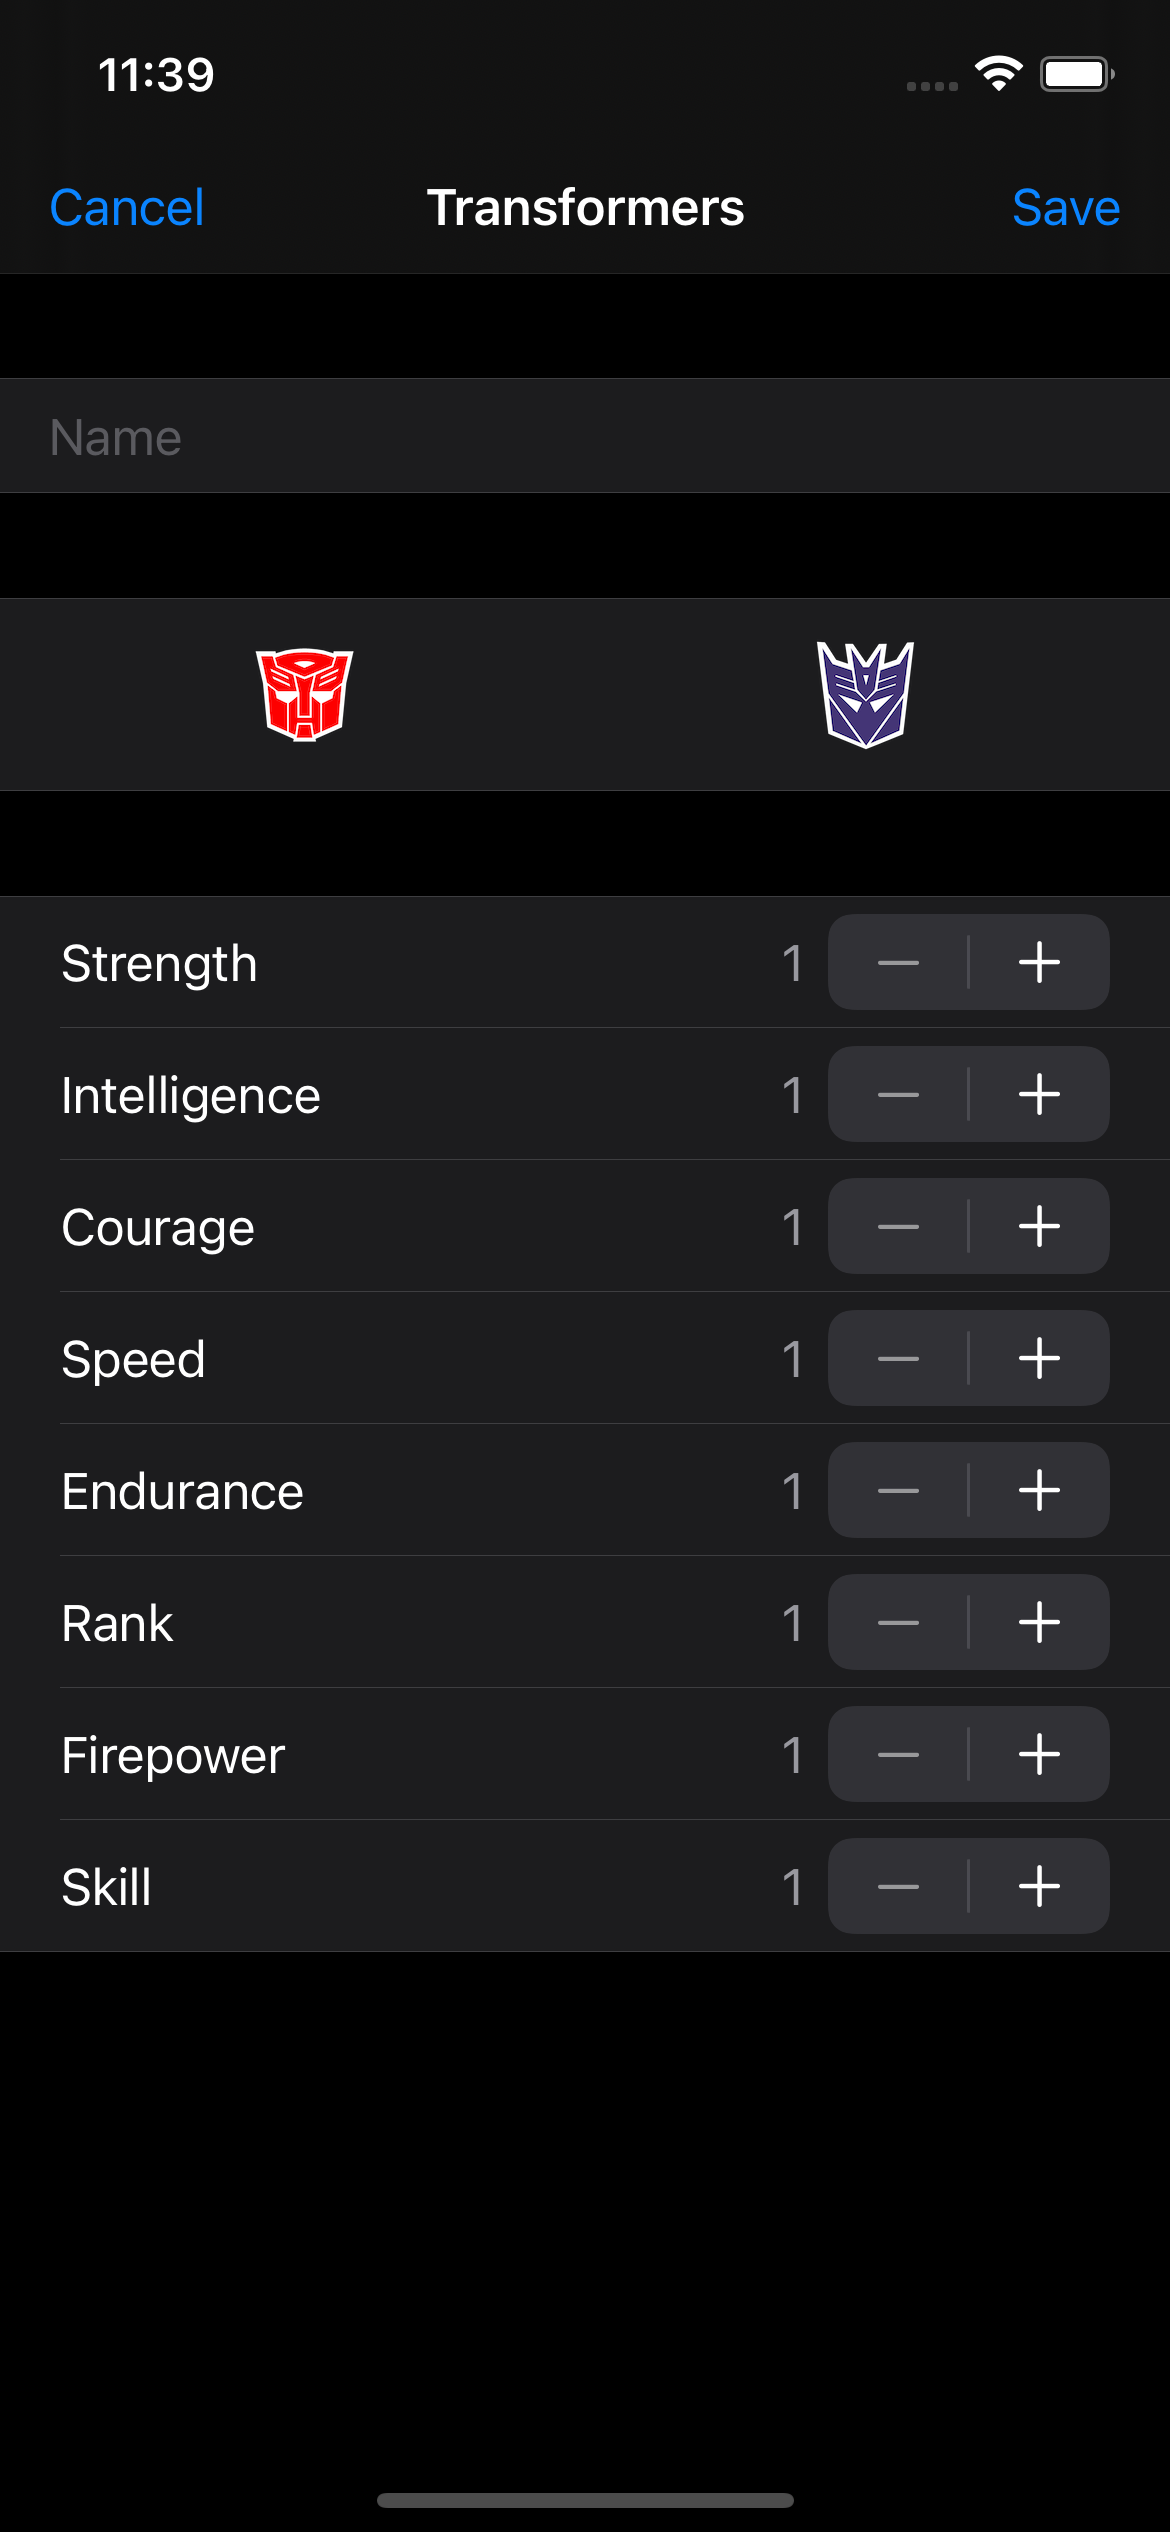
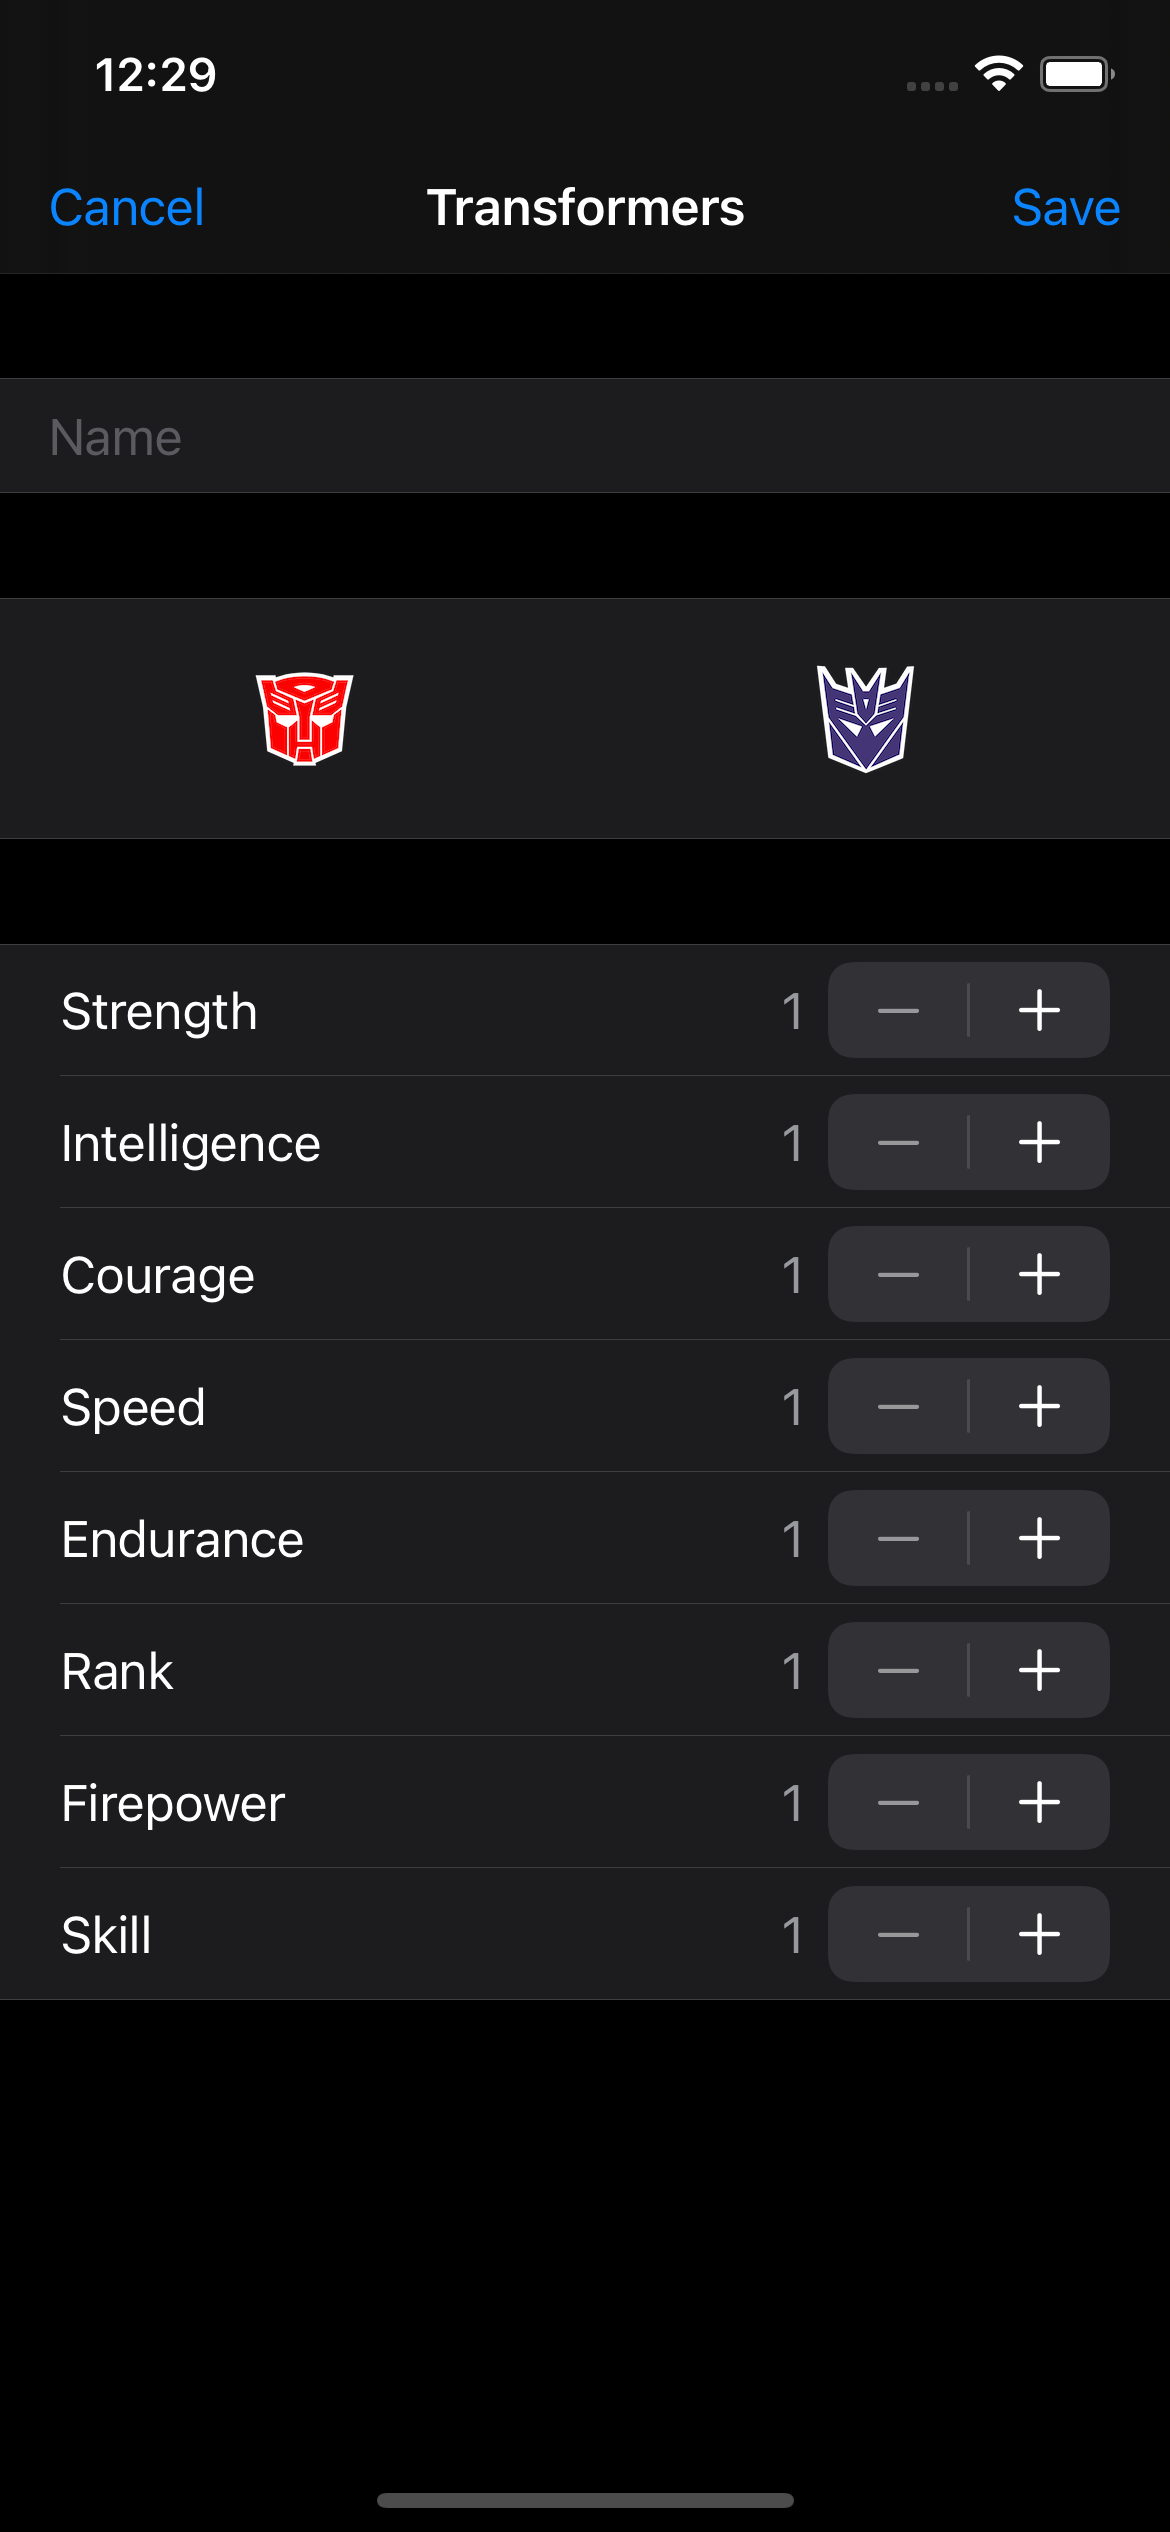
Updates constraints to silence wranings

diff --git a/TransformersApp/Scenes/TransformerDetail/Shared/ViewComponents/Cells/TypeInput/TransformerTypeInputTableViewCell.swift b/TransformersApp/Scenes/TransformerDetail/Shared/ViewComponents/Cells/TypeInput/TransformerTypeInputTableViewCell.swift
@@ -23,9 +23,10 @@ class TransformerTypeInputTableViewCell: UITableViewCell {
         let button = UIButton()
         button.layer.borderColor = UIColor.gray.cgColor
         button.setImage(UIImage(named: "Autobot"), for: .normal)
-        button.imageView?.contentMode = .scaleAspectFill
+        button.imageView?.contentMode = .scaleAspectFit
         button.addTarget(self, action: #selector(autobotButtonAction), for: .touchUpInside)
         button.translatesAutoresizingMaskIntoConstraints = false
+        button.imageEdgeInsets = UIEdgeInsets(top: 5, left: 10, bottom: 5, right: 10)
 
         return button
     }()
@@ -34,9 +35,10 @@ class TransformerTypeInputTableViewCell: UITableViewCell {
         let button = UIButton()
         button.layer.borderColor = UIColor.gray.cgColor
         button.setImage(UIImage(named: "Decepticon"), for: .normal)
-        button.imageView?.contentMode = .scaleAspectFill
+        button.imageView?.contentMode = .scaleAspectFit
         button.translatesAutoresizingMaskIntoConstraints = false
         button.addTarget(self, action: #selector(decepticonButtonAction), for: .touchUpInside)
+        button.imageEdgeInsets = UIEdgeInsets(top: 5, left: 10, bottom: 5, right: 10)
 
         return button
     }()
@@ -80,8 +82,15 @@ class TransformerTypeInputTableViewCell: UITableViewCell {
             buttonHeight = Constants.CompactButtonHeight
         }
 
-        autobotButton.constraintHeight(constant: buttonHeight)
-        decepticonButton.constraintHeight(constant: buttonHeight)
+        let autobotButtonHeightConstraint = autobotButton.heightAnchor.constraint(equalToConstant: buttonHeight)
+        let decepticonButtonHeightConstraint = decepticonButton.heightAnchor.constraint(equalToConstant: buttonHeight)
+
+        // Add a 999 priority to supress width constraint warning.
+        autobotButtonHeightConstraint.priority = .init(999)
+        decepticonButtonHeightConstraint.priority = .init(999)
+
+        autobotButtonHeightConstraint.isActive = true
+        decepticonButtonHeightConstraint.isActive = true
 
         stackView.addArrangedSubview(autobotButton)
         stackView.addArrangedSubview(decepticonButton)
@@ -170,8 +179,8 @@ class TransformerTypeInputTableViewCell: UITableViewCell {
 extension TransformerTypeInputTableViewCell {
 
     struct Constants {
-        static let RegularWidthRegularHeightButtonHeight: CGFloat = 64.0
-        static let CompactButtonHeight: CGFloat = 48.0
+        static let RegularWidthRegularHeightButtonHeight: CGFloat = 80.0
+        static let CompactButtonHeight: CGFloat = 64.0
     }
 
 }

diff --git a/TransformersApp/Scenes/Transformers/Utils/TransformerWarUtil.swift b/TransformersApp/Scenes/Transformers/Utils/TransformerWarUtil.swift
@@ -26,14 +26,14 @@ class TransformerWarUtil {
         autobots = dividedTransformers.autobots
         decepticons = dividedTransformers.decepticons
 
-        if autobots.isEmpty {
+        if autobots.isEmpty && decepticons.isEmpty {
+            return  TransformerWarScore(numberOfBattles: 0, winner: .draw)
+        } else if autobots.isEmpty {
             let decepticonsNames = decepticons.map { $0.name }
             return TransformerWarScore(numberOfBattles: 0, winner: .decepticons(winnersNames: decepticonsNames, losersNames: []))
         } else if decepticons.isEmpty {
             let autobotsNames = autobots.map { $0.name }
             return TransformerWarScore(numberOfBattles: 0, winner: .autobots(winnersNames: autobotsNames, losersNames: []))
-        } else if autobots.isEmpty && decepticons.isEmpty {
-            return  TransformerWarScore(numberOfBattles: 0, winner: .draw)
         }
 
         let numberOfBattles = min(autobots.count, decepticons.count)
